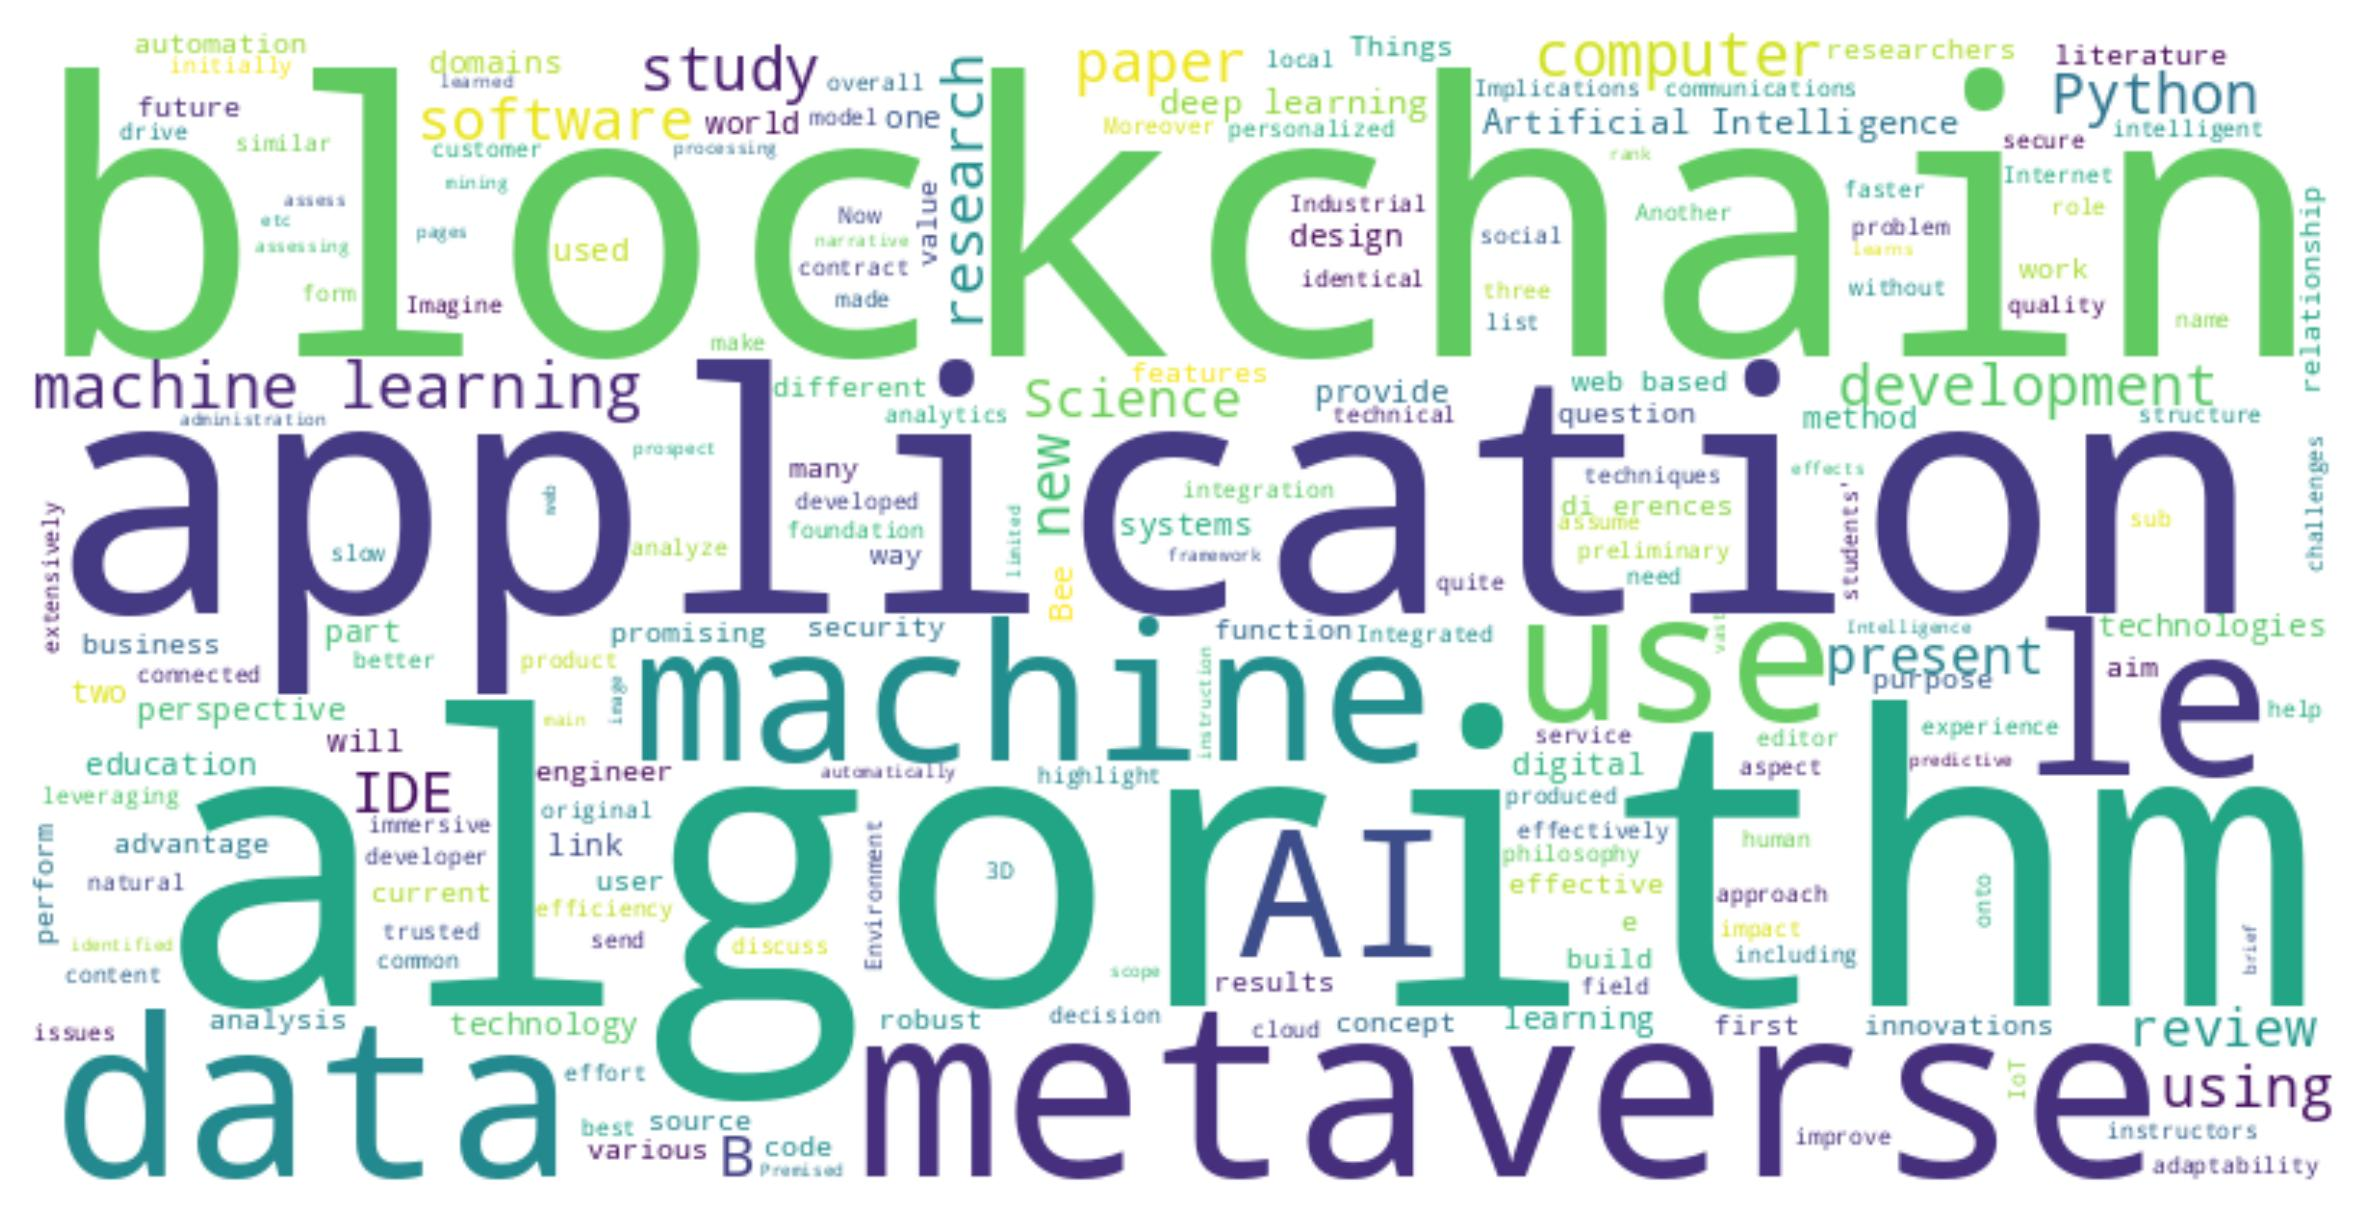
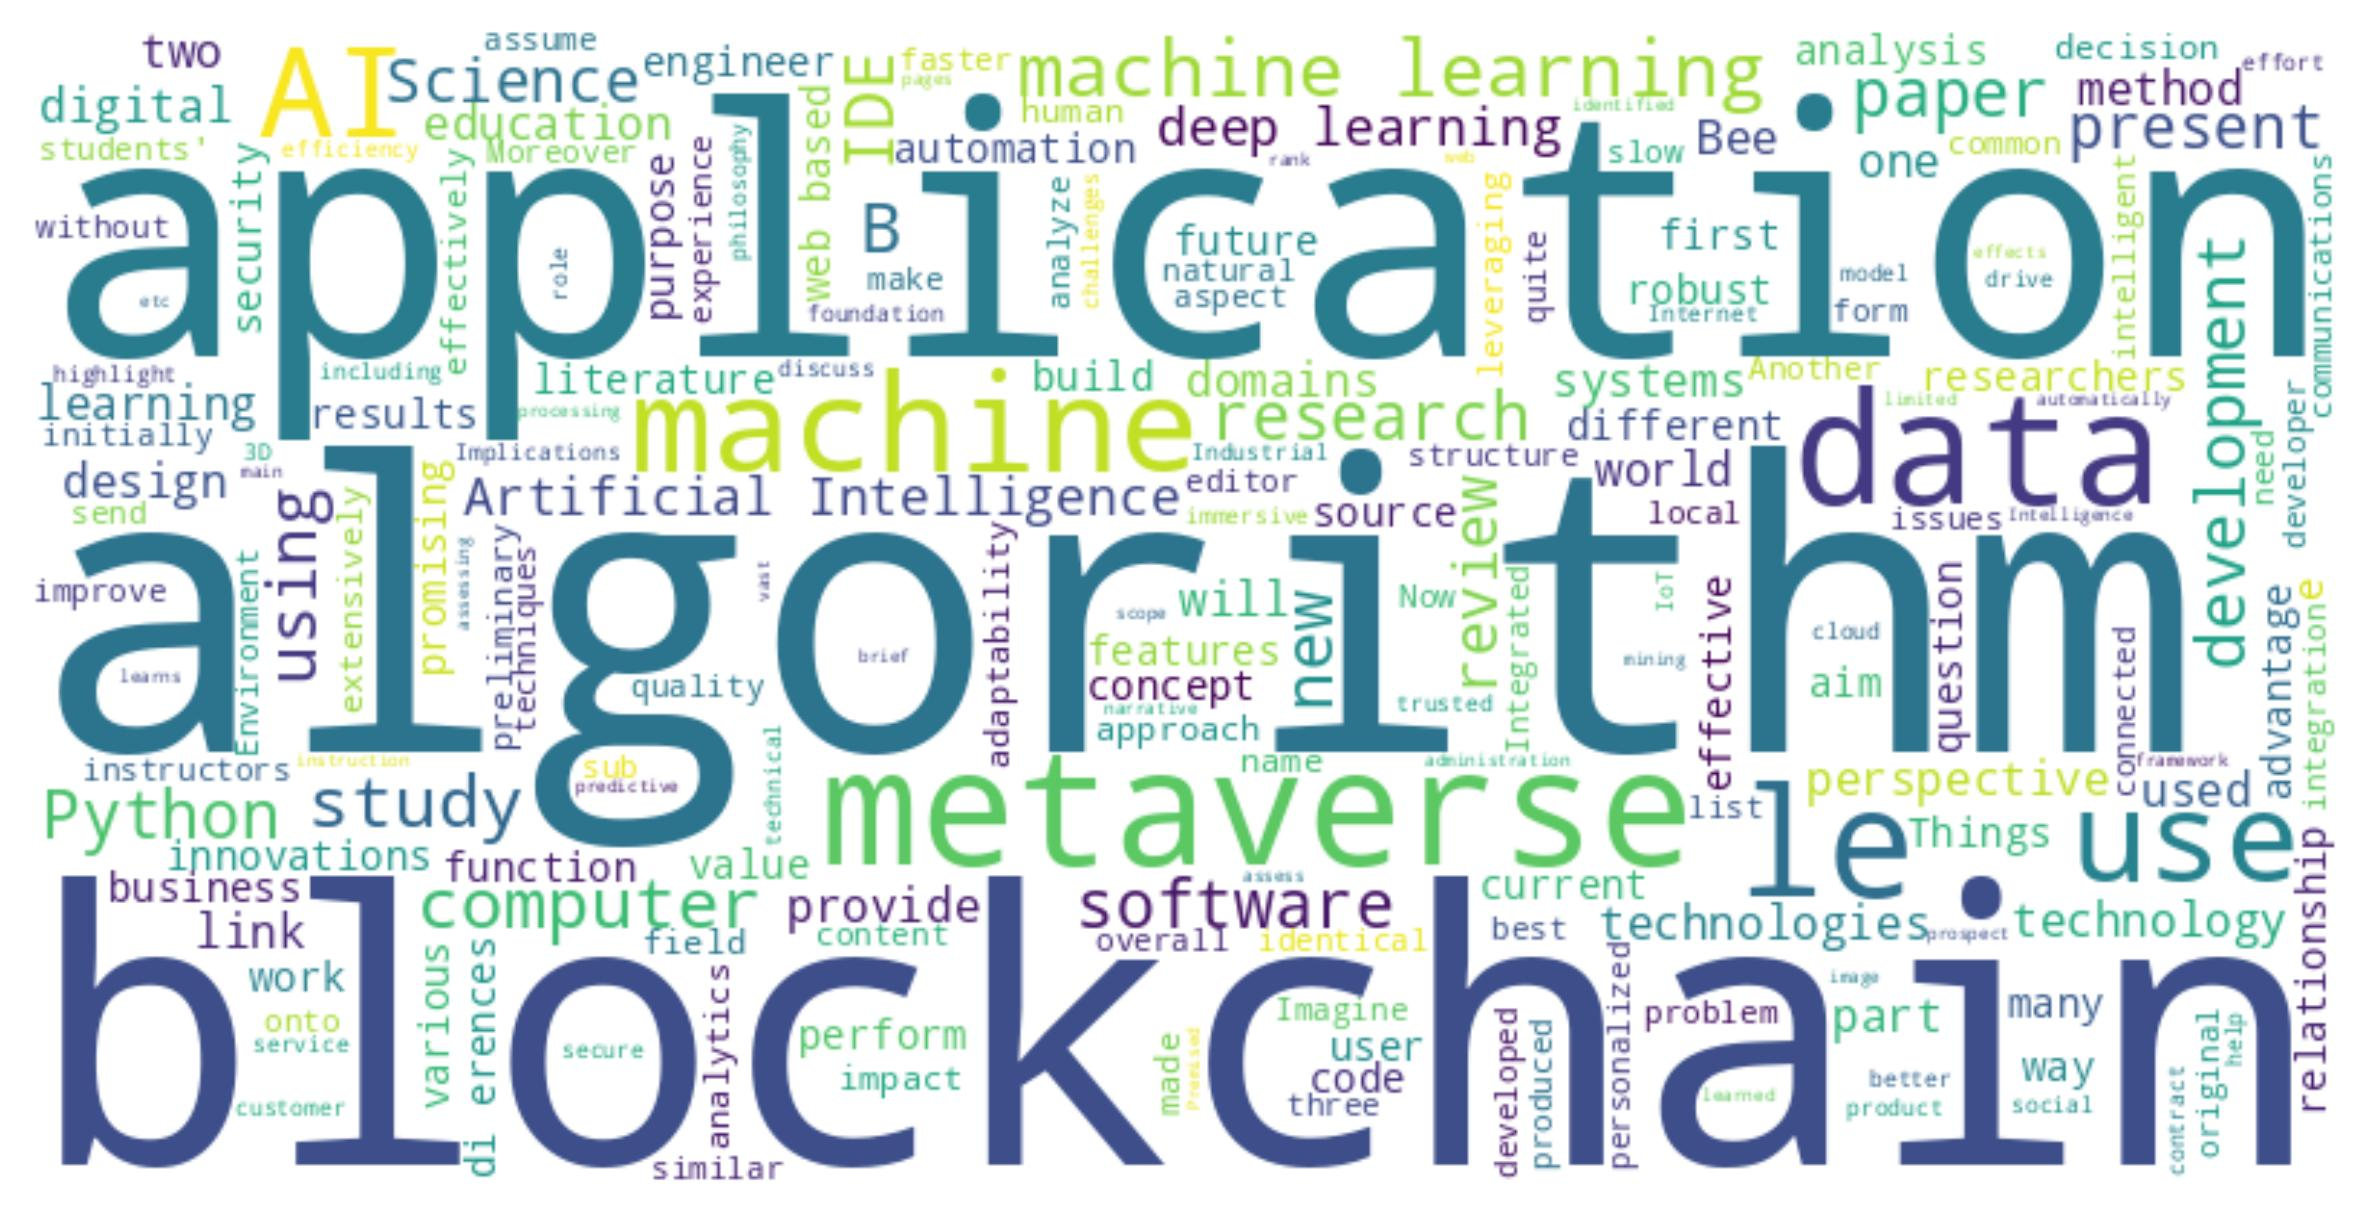
tests and workflows

diff --git a/tests/tests01.py b/tests/tests01.py
@@ -1,0 +1,116 @@
+import unittest
+import os
+import tempfile
+import xml.etree.ElementTree as ET
+from unittest.mock import patch, MagicMock
+import matplotlib.pyplot as plt
+from scripts.charts import count_figures, process_files as process_charts
+from scripts.keywordCloud import extract_abstract, process as process_cloud
+from scripts.list import extract_links, should_include_link, clean_link
+
+class TestAIOpenScience(unittest.TestCase):
+    def setUp(self):
+        # Create a temporary directory for test files
+        self.test_dir = tempfile.mkdtemp()
+        
+        # Create sample XML content
+        self.sample_xml = '''<?xml version="1.0" encoding="UTF-8"?>
+        <TEI xmlns="http://www.tei-c.org/ns/1.0">
+            <teiHeader>
+                <abstract>
+                    <p>This is a test abstract with keywords test analysis research</p>
+                </abstract>
+            </teiHeader>
+            <text>
+                <body>
+                    <figure/>
+                    <figure/>
+                    <p>Visit <ref target="http://example.com">link</ref></p>
+                    <div type="references">
+                        <p>Reference <ref target="http://reference.com">link</ref></p>
+                    </div>
+                </body>
+            </text>
+        </TEI>
+        '''
+        
+        # Create a test XML file
+        self.test_file = os.path.join(self.test_dir, "test.xml")
+        with open(self.test_file, "w", encoding="utf-8") as f:
+            f.write(self.sample_xml)
+
+    def tearDown(self):
+        # Clean up temporary files
+        for file in os.listdir(self.test_dir):
+            os.remove(os.path.join(self.test_dir, file))
+        os.rmdir(self.test_dir)
+
+    def test_count_figures(self):
+        """Test if figure counting works correctly"""
+        figure_count = count_figures(self.test_file)
+        self.assertEqual(figure_count, 2, "Should find exactly 2 figures in the test XML")
+
+    def test_extract_abstract(self):
+        """Test if abstract extraction works correctly"""
+        abstract = extract_abstract(self.test_file)
+        expected = "This is a test abstract with keywords test analysis research "
+        self.assertEqual(abstract, expected, "Abstract text should match exactly")
+
+    def test_extract_links(self):
+        """Test if link extraction works correctly"""
+        links = extract_links(self.test_file)
+        self.assertEqual(len(links), 1, "Should find exactly 1 non-reference link")
+        self.assertEqual(links[0], "http://example.com", "Should extract correct link URL")
+
+    def test_should_include_link(self):
+        """Test link filtering logic"""
+        self.assertTrue(should_include_link("http://example.com"))
+        self.assertFalse(should_include_link("http://grobid.com"))
+        self.assertFalse(should_include_link("#internal-ref"))
+        self.assertFalse(should_include_link(""))
+
+    def test_clean_link(self):
+        """Test link cleaning functionality"""
+        self.assertEqual(clean_link("http://example.com."), "http://example.com")
+        self.assertEqual(clean_link("http://example.com,"), "http://example.com")
+        self.assertEqual(clean_link("http://example.com"), "http://example.com")
+
+    @patch('matplotlib.pyplot.savefig')
+    def test_charts_generation(self, mock_savefig):
+        """Test if charts are generated without errors"""
+        process_charts(self.test_file)
+        mock_savefig.assert_called_once()
+        
+    @patch('matplotlib.pyplot.savefig')
+    def test_wordcloud_generation(self, mock_savefig):
+        """Test if word cloud is generated without errors"""
+        process_cloud(self.test_file)
+        mock_savefig.assert_called_once()
+
+    def test_multiple_files_processing(self):
+        """Test processing multiple XML files"""
+        # Create a second test file
+        second_file = os.path.join(self.test_dir, "test2.xml")
+        with open(second_file, "w", encoding="utf-8") as f:
+            f.write(self.sample_xml)
+            
+        files = os.listdir(self.test_dir)
+        self.assertEqual(len(files), 2, "Should have exactly 2 test files")
+
+    def test_invalid_xml(self):
+        """Test handling of invalid XML files"""
+        invalid_file = os.path.join(self.test_dir, "invalid.xml")
+        with open(invalid_file, "w") as f:
+            f.write("This is not valid XML")
+            
+        with self.assertRaises(ET.ParseError):
+            count_figures(invalid_file)
+
+    def test_empty_directory(self):
+        """Test processing an empty directory"""
+        empty_dir = tempfile.mkdtemp()
+        process_charts(empty_dir)  # Should not raise any errors
+        os.rmdir(empty_dir)
+
+if __name__ == '__main__':
+    unittest.main()

diff --git a/scripts/charts.py b/scripts/charts.py
@@ -6,6 +6,8 @@ import matplotlib.pyplot as plt
 # This script process the figures of the xml files and gives a chart whitn the number of it.
 # It can process a sigle file or all the files in a folder.
 
+titulos = []
+
 def count_figures(xml_file):
     '''
     :param: path to the xml file
@@ -36,10 +38,11 @@ def generate_chart(figure_counts):
     output_path = os.path.join(output_dir, "charts.jpg")
     plt.savefig(output_path, format='jpeg', dpi=300, bbox_inches='tight')
 
-    plt.show()
+    print(f"Chart saved in {output_path}")
 
 
 def process_files(path):
+    titulos = []
     figure_counts = []
     if os.path.isfile(path):
         titulos.append(path)
@@ -62,6 +65,5 @@ if __name__ == "__main__":
     if len(sys.argv) < 2:
         print("Use: python charts.py <folder_with_xmls>")
         sys.exit(1)
-    titulos = []
     path = sys.argv[1]
     process_files(path)

diff --git a/scripts/keywordCloud.py b/scripts/keywordCloud.py
@@ -26,7 +26,7 @@ def generate_cloud(text):
     output_dir = "../results"
     os.makedirs(output_dir, exist_ok=True)
 
-    # print(text)
+    
     wordcloud = WordCloud(width=800, height=400, background_color='white').generate(text)
     plt.figure(figsize=(10, 5))
     plt.imshow(wordcloud, interpolation='bilinear')
@@ -35,7 +35,7 @@ def generate_cloud(text):
     output_path = os.path.join(output_dir, "keywordCloud.jpg")
     plt.savefig(output_path, format='jpeg', dpi=300, bbox_inches='tight')
 
-    plt.show()
+    print(f"Chart saved in {output_path}")
 
 def process(path):
     if os.path.isfile(path):

diff --git a/README.md b/README.md
@@ -1,12 +1,16 @@
 # AI-Open-Science
 
-[![License](http://img.shields.io/:license-apache-blue.svg)](http://www.apache.org/licenses/LICENSE-2.0.html)  [![DOI](https://zenodo.org/badge/.svg)](https://zenodo.org/badge/latestdoi/)  
-[![Documentation Status](https://readthedocs.org/projects/ai-open-science/badge/?version=latest)](https://readthedocs.org/projects/ai-open-science/?badge=latest)
-[![GitHub release](https://img.shields.io/github/release/fran2410/AI-Open-Science.svg)](https://github.com/fran2410/AI-Open-Science/releases/)
+[![License](http://img.shields.io/:license-apache-blue.svg)](http://www.apache.org/licenses/LICENSE-2.0.html)  [![DOI](https://zenodo.org/badge/.svg)](https://zenodo.org/badge/latestdoi/)  [![Documentation Status](https://readthedocs.org/projects/ai-open-science/badge/?version=latest)](https://readthedocs.org/projects/ai-open-science/?badge=latest)[![GitHub release](https://img.shields.io/github/release/fran2410/AI-Open-Science.svg)](https://github.com/fran2410/AI-Open-Science/releases/)
 
 ## Description
 
 This repository provides tools for extracting and visualizing information from scientific papers in XML format. Using [GROBID](https://github.com/kermitt2/grobid). for document processing, the scripts generate keyword clouds, charts displaying the number of figures per document, and extract links from XML files.
+
+## Features
+Given a XML file (or a directory with some of them) the tool will extract the data and make:
+- **Keyword Cloud**: Keyword cloud based on the abstract information.
+- **Charts**: Charts visualization showing the number of figures per article.
+- **Links**: list of the links found in each paper while ignoring references.
 
 ## Project Structure
 
@@ -21,33 +25,54 @@ This repository provides tools for extracting and visualizing information from s
 ├── documentation/  # Additional documentation 
 ```
 
-## Requirements
+# Prerequisites
 
-### Dependencies
+Make sure you have the following installed:
+- [Conda](https://docs.conda.io/en/latest/miniconda.html) (Miniconda or Anaconda)
+- [Poetry](https://python-poetry.org/docs/#installation)
 
-Ensure you have the required dependencies installed:
-```bash
-pip install -r requirements.txt
-```
+# Installation
 
-### XML Processing with GROBID
-
-This repository contains scripts and data for processing XML files extracted from research papers using [GROBID](https://github.com/kermitt2/grobid).  
-
-## Installation
-
-1. Clone the repository:
+##  Clone the repository:
    ```bash
    git clone https://github.com/fran2410/AI-Open-Science.git
    cd AI-Open-Science
    ```
-2. Install dependencies:
-   ```bash
-   pip install -r requirements.txt
-   ```
-## Usage
+## Conda
 
-### 1. Generate Keyword Cloud  
+#### Create and activate the Conda environment
+```bash
+conda create -n ai-open-science python=3.13 
+conda activate ai-open-science
+```
+
+## Poetry
+
+#### 1. Install Poetry
+If you don’t have Poetry installed, run:
+```bash
+pip install poetry
+```
+
+#### 2. Install project dependencies
+Run the following command in the root of the repository to install dependencies:
+```bash
+poetry install
+```
+
+## Activate enviroment
+Activate the enviroment to start working:
+```bash
+conda activate ai-open-science
+```
+
+## Verify installation
+You can check if everything is correctly installed by running:
+```bash
+python -c "import matplotlib, wordcloud; print('Installation successful')"
+```
+
+## Generate Keyword Cloud  
 Extracts keywords from abstracts in XML files and creates a word cloud.
 
 **Command:**
@@ -56,7 +81,7 @@ python scripts/keywordCloud.py <folder_with_xmls>
 ```
 **Output:** `results/keywordCloud.jpg`
 
-### 2. Chart Figures Count  
+## Chart Figures Count  
 Counts the number of figures in each XML file and generates a bar chart.
 
 **Command:**
@@ -65,7 +90,7 @@ python scripts/charts.py <folder_with_xmls>
 ```
 **Output:** `results/charts.jpg`
 
-### 3. Extract Links  
+## Extract Links  
 Extracts links from XML files while ignoring references.
 
 **Command:**

diff --git a/docs/index.md b/docs/index.md
@@ -1,12 +1,13 @@
 
-[![License](http://img.shields.io/:license-apache-blue.svg)](http://www.apache.org/licenses/LICENSE-2.0.html)  [![DOI](https://zenodo.org/badge/.svg)](https://zenodo.org/badge/latestdoi/)  
-[![Documentation Status](https://readthedocs.org/projects/ai-open-science/badge/?version=latest)](https://readthedocs.org/projects/ai-open-science/?badge=latest)
-[![GitHub release](https://img.shields.io/github/release/fran2410/AI-Open-Science.svg)](https://github.com/fran2410/AI-Open-Science/releases/)
+[![License](http://img.shields.io/:license-apache-blue.svg)](http://www.apache.org/licenses/LICENSE-2.0.html)  [![DOI](https://zenodo.org/badge/.svg)](https://zenodo.org/badge/latestdoi/)  [![Documentation Status](https://readthedocs.org/projects/ai-open-science/badge/?version=latest)](https://readthedocs.org/projects/ai-open-science/?badge=latest)[![GitHub release](https://img.shields.io/github/release/fran2410/AI-Open-Science.svg)](https://github.com/fran2410/AI-Open-Science/releases/)
 
 
 ## Description
 
 This repository provides tools for extracting and visualizing information from scientific papers in XML format. Using [GROBID](https://github.com/kermitt2/grobid). for document processing, the scripts generate keyword clouds, charts displaying the number of figures per document, and extract links from XML files.
+
+!!! info
+    For any issues or questions, please open an issue in the [project issues](https://github.com/fran2410/AI-Open-Science/issues).
 
 ## Features
 Given a XML file (or a directory with some of them) the tool will extract the data and make:
